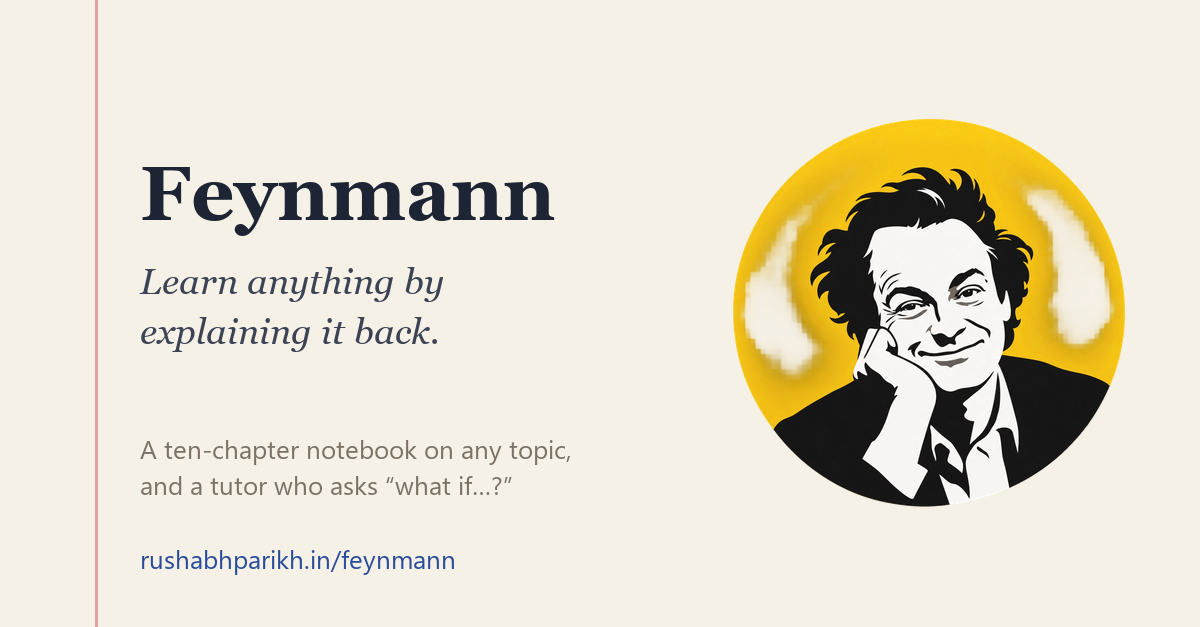
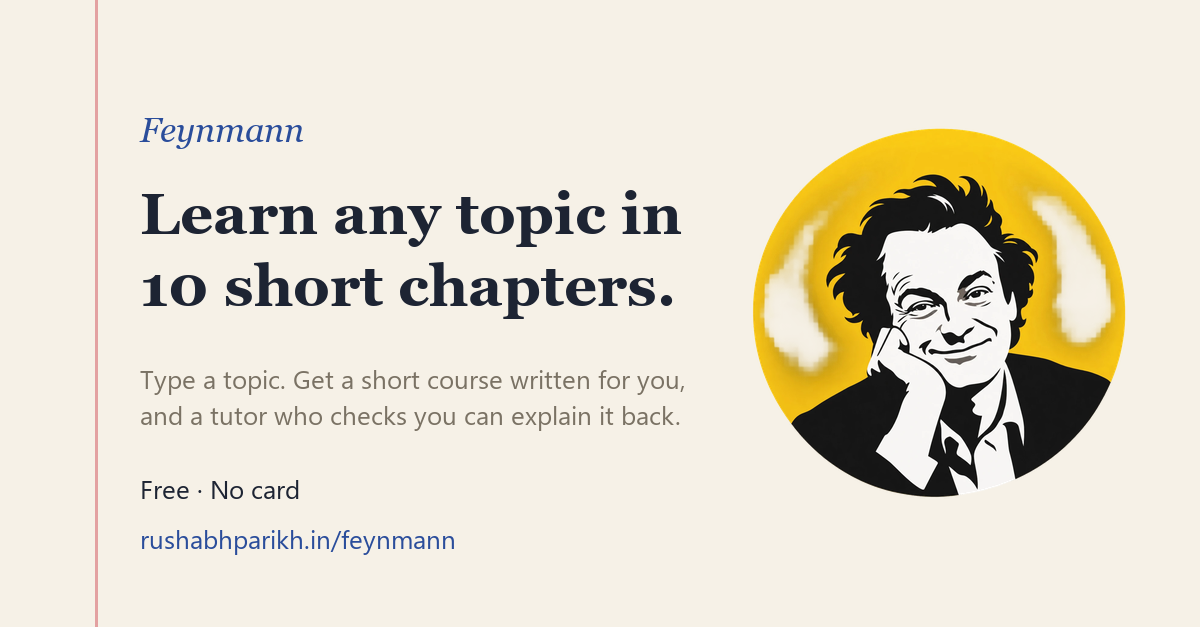
Feynmann: clearer copy (courses)

diff --git a/feynmann/privacy.html b/feynmann/privacy.html
@@ -23,20 +23,20 @@
   <body>
     <main>
       <h1>We're with you</h1>
-      <p class="muted">How Feynmann looks after what you share with it. By Rushabh Parikh. Last updated 5 October 2026.</p>
+      <p class="muted">How Feynmann looks after what you share with it. By Rushabh Parikh. Last updated 4 October 2026.</p>
 
       <p class="lead">Learning means getting things wrong out loud. You should be able to do that here without worrying
         about who's watching. So here, in plain words, is what we keep, why we keep it, and how you stay in charge of it.</p>
 
       <h2>When you sign in with Google</h2>
-      <p>We receive your name, email address and profile picture. We use them to know it's you, so your notebooks are
+      <p>We receive your name, email address and profile picture. We use them to know it's you, so your courses are
         yours and nobody else's, on every device you use.</p>
 
       <h2>What we keep, and why</h2>
       <p>We save your learning to your account, so you can pick up exactly where you left off and so Feynmann gets
         better at teaching:</p>
       <ul>
-        <li><strong>Your notebooks and progress:</strong> the plans written for you, your lessons, which chapters you've
+        <li><strong>Your courses and progress:</strong> the plans written for you, your lessons, which chapters you've
           finished, your test scores, and what's coming back for review.</li>
         <li><strong>Your conversations with your tutor:</strong> how you explained each idea back, the questions you
           asked, your "what if…" questions, and the tutor's replies. These are the heart of how you learn here, and they
@@ -58,25 +58,20 @@
           passed straight to OpenAI or YouTube when you use them, without being stored.</li>
       </ul>
 
-      <h2>All shelves</h2>
-      <p>When Feynmann writes a notebook, its plan, lessons, quizzes and suggested videos go on <em>All shelves</em>, so the
+      <h2>Ready-made courses</h2>
+      <p>When Feynmann writes a course, its plan, lessons, quizzes and suggested videos become a <em>ready-made course</em>, so the
         next person learning that topic can start straight away, for free. They're shared <strong>without</strong> your
-        name, and without anything you answered, wrote or said. We privately note who started each notebook, only so we
-        can take one down if it's ever inappropriate. Lessons written around your particular mistakes, and the detours
+        name, and without anything you answered, wrote or said. We privately note who created each course, only so we
+        can take one down if it's ever inappropriate. Lessons written around your particular mistakes, and the extra lessons
         you ask for, stay yours alone.</p>
 
       <h2>On your device</h2>
-      <p>Your browser keeps a copy of your notebooks so the app opens instantly. The copy on our servers is the one that
+      <p>Your browser keeps a copy of your courses so the app opens instantly. The copy on our servers is the one that
         counts: sign in anywhere and it's all there.</p>
-
-      <h2>Visit counts</h2>
-      <p>We count visits with GoatCounter, a privacy-friendly analytics tool: which pages are opened, the site you came
-        from, and your browser, screen size and country. It uses no cookies, isn't linked to your account, and never sees
-        what you type or say.</p>
 
       <h2>You're in charge</h2>
       <p>Want to see what we have, or have all of it deleted? Email
-        <a href="mailto:rushabhparikh10@gmail.com">rushabhparikh10@gmail.com</a> and we'll take care of it: your notebooks,
+        <a href="mailto:rushabhparikh10@gmail.com">rushabhparikh10@gmail.com</a> and we'll take care of it: your courses,
         your conversations, and every record tied to your email. No forms, no questions asked.</p>
       <p>Requests to OpenAI and YouTube are handled by those companies under their own privacy policies.</p>
     </main>

diff --git a/feynmann/index.html b/feynmann/index.html
@@ -3,8 +3,8 @@
   <head>
     <meta charset="UTF-8" />
     <meta name="viewport" content="width=device-width, initial-scale=1.0" />
-    <title>Feynmann · Learn anything by explaining it back</title>
-    <meta name="description" content="Turn any topic into a ten-chapter notebook, then learn it one page at a time, explaining each idea back to a tutor who asks “what if…?”. Free to try." />
+    <title>Feynmann · Learn any topic in 10 short chapters</title>
+    <meta name="description" content="Type any topic and get a short 10-chapter course, written for you. Skip what you already know, and explain each idea back to a tutor until it sticks. Free to start." />
     <link rel="icon" href="favicon.ico" sizes="48x48" />
     <link rel="icon" type="image/png" href="favicon-32.png" sizes="32x32" />
     <link rel="apple-touch-icon" href="apple-touch-icon.png" />
@@ -13,13 +13,13 @@
     <!-- Link previews (LinkedIn, WhatsApp, X): need absolute URLs -->
     <meta property="og:type" content="website" />
     <meta property="og:site_name" content="Feynmann" />
-    <meta property="og:title" content="Feynmann · Learn anything by explaining it back" />
-    <meta property="og:description" content="A ten-chapter notebook on any topic, and a tutor who asks “what if…?” until you can explain it yourself. Free to try." />
+    <meta property="og:title" content="Feynmann · Learn any topic in 10 short chapters" />
+    <meta property="og:description" content="Type any topic and get a short course written for you, with a tutor who checks you can explain it back. Free to start." />
     <meta property="og:url" content="https://rushabhparikh.in/feynmann/" />
     <meta property="og:image" content="https://rushabhparikh.in/feynmann/og-image.png" />
     <meta property="og:image:width" content="1200" />
     <meta property="og:image:height" content="627" />
-    <meta property="og:image:alt" content="Feynmann: learn anything by explaining it back" />
+    <meta property="og:image:alt" content="Feynmann: learn any topic in 10 short chapters" />
     <meta name="twitter:card" content="summary_large_image" />
     <link rel="preconnect" href="https://fonts.googleapis.com" />
     <link rel="preconnect" href="https://fonts.gstatic.com" crossorigin />
@@ -27,8 +27,8 @@
       href="https://fonts.googleapis.com/css2?family=Inter:wght@400;500;600;700&family=Newsreader:ital,opsz,wght@0,6..72,400;0,6..72,500;0,6..72,600;1,6..72,400;1,6..72,500&display=swap"
       rel="stylesheet"
     />
-    <script type="module" crossorigin src="./assets/index-DSHRr9vE.js"></script>
-    <link rel="stylesheet" crossorigin href="./assets/index-DUBaaVKE.css">
+    <script type="module" crossorigin src="./assets/index-Cz8p_H-7.js"></script>
+    <link rel="stylesheet" crossorigin href="./assets/index-CoJ8WKUQ.css">
   </head>
   <body>
     <div id="root"></div>
